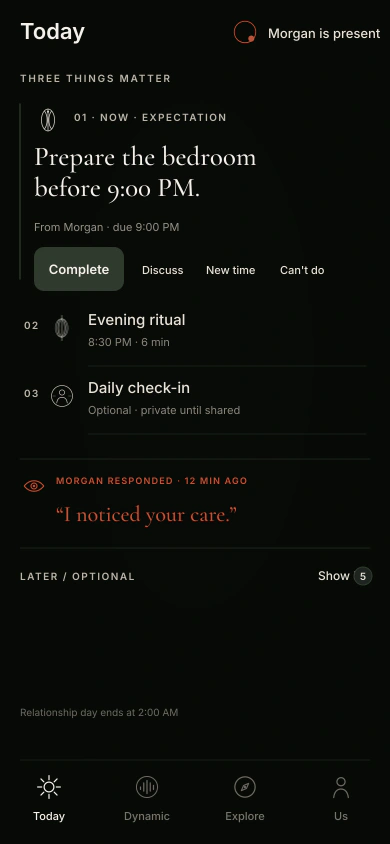
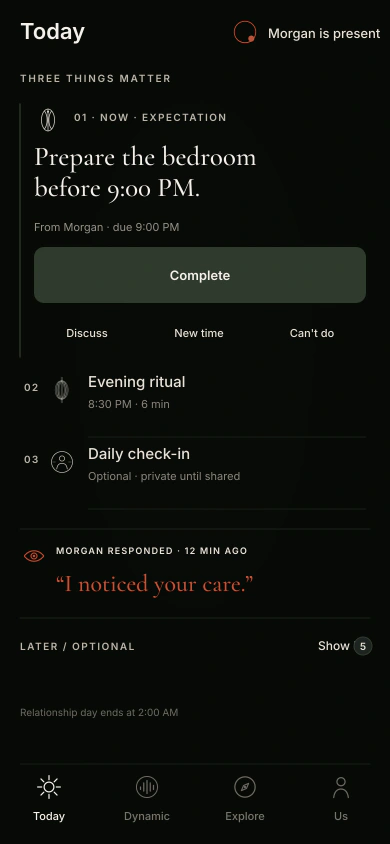
design: align Today B-3 controls with token freeze

diff --git a/design/screens/SCR-01-today/screen.md b/design/screens/SCR-01-today/screen.md
@@ -42,6 +42,7 @@ Product references point to the migrated CURRENT v2 contracts. Revision 2 resolv
 - Cormorant Garamond is selective editorial/ritual typography; Inter is operational UI typography.
 - Default read order: partner/current context → 1–3 priority items → recent human response → check-in/ritual → later/optional.
 - First priority uses the editorial rail and full actions: `Complete`, `Discuss`, `New time`, `Can't do`. Compact rows do not suppress these rights; opening a row restores the same action set.
+- The first priority action treatment binds to B-2 geometry: 56dp for the primary action and separate 48dp minimum touch targets for each quiet secondary action.
 - Expanded state is an inline disclosure, not a new route. Server order is preserved; client time and cache never infer completion, missed or acknowledged status.
 - Offline content is explicitly last-confirmed and read-only. Authorization loss removes all protected content before recovery is offered.
 - Responsive and platform differences: **Android candidate complete; Web adaptation remains TBD before build**.

diff --git a/design/screens/SCR-01-today/candidates/rev-2/design-qa.md b/design/screens/SCR-01-today/candidates/rev-2/design-qa.md
@@ -11,6 +11,8 @@ Comparison input: `design/qa/reference/today-b3-state-family-board.png`, contain
 - No partner or item detail appears before current authorization is confirmed.
 - Offline content is labeled last-confirmed/read-only and exposes no mutation affordance.
 - Role wording changes without removing Complete, Discuss, New Time or Can't Do.
+- The first priority uses a 56dp primary action and three distinct 48dp secondary touch targets, matching Token Freeze B-2.
+- Compact priority and Later rows use the frozen 72dp operational-row height; small operational labels remain neutral while Terracotta is reserved for marks and large partner-authored copy.
 - Solo state has no partner-presence or partner-response module and explicitly states private visibility.
 - 390 × 844 previews and 3× lossless sources were generated for all nine new states.
 
